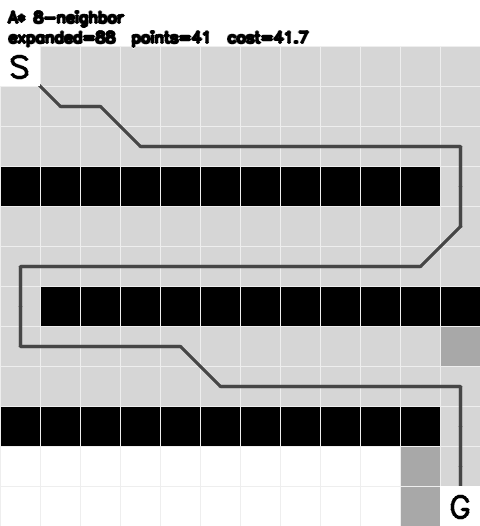
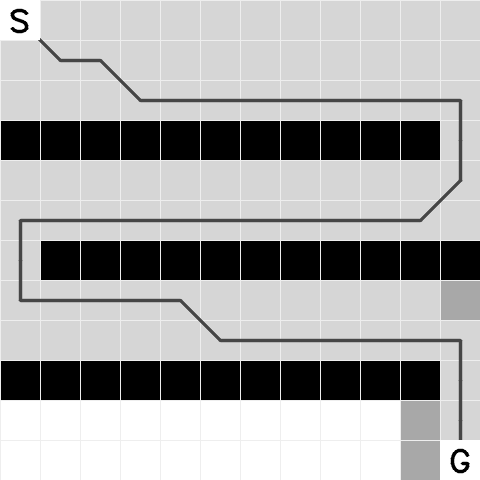
任务四：三个文件统一放到 src 下，图上不再有标题文字

diff --git a/navigation_ws/task4/src/main.cpp b/navigation_ws/task4/src/main.cpp
@@ -21,14 +21,6 @@ const int OPEN_LEVEL = 168;
 const int GRID_LEVEL = 238;
 const int PATH_LEVEL = 70;
 
-void put_text(cv::Mat& image, const std::string& text, int row) {
-    const cv::Point origin{8, 22 + row * 20};
-    cv::putText(
-        image, text, origin, cv::FONT_HERSHEY_SIMPLEX, 0.5, cv::Scalar(FREE_LEVEL), 4, cv::LINE_AA);
-    cv::putText(
-        image, text, origin, cv::FONT_HERSHEY_SIMPLEX, 0.5, cv::Scalar(WALL_LEVEL), 2, cv::LINE_AA);
-}
-
 void put_mark(cv::Mat& image, Point point, int cell, const std::string& letter) {
     cv::rectangle(
         image, cv::Rect(point.x * cell, point.y * cell, cell, cell), cv::Scalar(FREE_LEVEL),
@@ -51,8 +43,7 @@ std::string info_text(const Result& result) {
     return text.str();
 }
 
-cv::Mat draw(
-    const Map& map, const Result& result, Point start, Point goal, const std::string& title) {
+cv::Mat draw(const Map& map, const Result& result, Point start, Point goal) {
 
     const int cell = std::max(14, 480 / map.width);
     cv::Mat image(map.height * cell, map.width * cell, CV_8UC1, cv::Scalar(FREE_LEVEL));
@@ -72,15 +63,16 @@ cv::Mat draw(
         }
     }
 
-    for (int x = 0; x <= map.width; ++x)
-        cv::line(
-            image, cv::Point{x * cell, 0}, cv::Point{x * cell, image.rows},
-            cv::Scalar(GRID_LEVEL), 1);
-    for (int y = 0; y <= map.height; ++y)
-        cv::line(
-            image, cv::Point{0, y * cell}, cv::Point{image.cols, y * cell}, cv::Scalar(GRID_LEVEL),
-            1);
-
+    if (cell >= 24) {
+        for (int x = 0; x <= map.width; ++x)
+            cv::line(
+                image, cv::Point{x * cell, 0}, cv::Point{x * cell, image.rows},
+                cv::Scalar(GRID_LEVEL), 1);
+        for (int y = 0; y <= map.height; ++y)
+            cv::line(
+                image, cv::Point{0, y * cell}, cv::Point{image.cols, y * cell},
+                cv::Scalar(GRID_LEVEL), 1);
+    }
     if (!result.path.empty()) {
         std::vector<cv::Point> centers;
         for (const auto& point : result.path)
@@ -91,11 +83,7 @@ cv::Mat draw(
     put_mark(image, start, cell, "S");
     put_mark(image, goal, cell, "G");
 
-    cv::Mat canvas(image.rows + 46, image.cols, CV_8UC1, cv::Scalar(FREE_LEVEL));
-    image.copyTo(canvas(cv::Rect(0, 46, image.cols, image.rows)));
-    put_text(canvas, title, 0);
-    put_text(canvas, info_text(result), 1);
-    return canvas;
+    return image;
 }
 
 cv::Mat side_by_side(const std::vector<cv::Mat>& images) {
@@ -169,8 +157,7 @@ int main() {
         const Result result = find_path(item.map, item.start, item.goal, true);
         print_info(item.name, result);
         cv::imwrite(
-            outDir + item.name + ".png",
-            draw(item.map, result, item.start, item.goal, "A* 8-neighbor"));
+            outDir + item.name + ".png", draw(item.map, result, item.start, item.goal));
     }
 
     const std::vector<Case> maps = make_maps();
@@ -181,7 +168,7 @@ int main() {
         const Result result = find_path(rooms.map, rooms.start, rooms.goal, allowDiagonal);
         const std::string title = allowDiagonal ? "rooms / 8-neighbor" : "rooms / 4-neighbor";
         print_info(title, result);
-        images.push_back(draw(rooms.map, result, rooms.start, rooms.goal, title));
+        images.push_back(draw(rooms.map, result, rooms.start, rooms.goal));
     }
     cv::imwrite(outDir + "neighbors.png", side_by_side(images));
 

diff --git a/navigation_ws/task4.md b/navigation_ws/task4.md
@@ -19,13 +19,14 @@ random.png          60×40 随机障碍地图
 neighbors.png       同一张图 4 邻域 vs 8 邻域对比
 ```
 
-代码就 3 个文件，各管各的：
+代码就 3 个文件，都放在 `src/` 下，各管各的：
 
 ```
 task4/
-├── include/map.hpp      地图：图多大、哪格能走、怎么造墙
-├── include/astar.hpp    算法：怎么找路（接口和实现都在这一个文件里）
-└── src/main.cpp         主程序：造地图 + 调算法 + 画图
+└── src/
+    ├── map.hpp      地图：图多大、哪格能走、怎么造墙
+    ├── astar.hpp    算法：怎么找路（接口和实现都在这一个文件里）
+    └── main.cpp     主程序：造地图 + 调算法 + 画图
 ```
 
 要改地图就改 `src/main.cpp` 的 `make_maps()`：
@@ -37,11 +38,11 @@ maps.push_back(Case{"tiny_5x5", std::move(tiny), Point{0, 0}, Point{4, 4}});
 //                 ↑名字                        ↑起点      ↑终点
 ```
 
-**图是黑白的**（灰度，没有彩色）：白=空地、黑=障碍、浅灰=搜过的格子、中灰=待办清单、深灰=最后那条路径；起点写个 `S`，终点写个 `G`，标题和结果数字放在图上方单独一条白边上，不压着地图。
+**图是黑白的**（灰度，没有彩色）：白=空地、黑=障碍、浅灰=搜过的格子、中灰=待办清单、深灰=最后那条路径；起点写个 `S`，终点写个 `G`。图上**不放任何标题和数字**，看着干净；跑的数值只在终端里打印。小地图（5×5、12×12）会画浅灰网格线，方便数格子；大地图不画。
 
 ## 二、代码
 
-### include/map.hpp
+### src/map.hpp
 
 ```cpp
 #pragma once
@@ -121,7 +122,7 @@ public:
 };
 ```
 
-### include/astar.hpp
+### src/astar.hpp
 
 ```cpp
 #pragma once
@@ -253,7 +254,16 @@ inline Result find_path(const Map& map, Point start, Point goal, bool allowDiago
 }
 ```
 
-`src/main.cpp` 就干三件事：造地图、调 `find_path`、把结果画成 PNG。画图每格用 `cv::rectangle` 填一种灰度，路径用 `cv::polylines` 连成折线，起点终点格子填白后写上 `S` / `G`，最后把标题和数字写在上方那条 46 像素的白边上。
+`src/main.cpp` 就干三件事：造地图、调 `find_path`、把结果画成 PNG。画图就是每格用 `cv::rectangle` 填一种灰度，路径用 `cv::polylines` 连成折线，起点终点格子填白、写上 `S` / `G`，别的一律不画。数字改在终端里看：
+
+```bash
+[tiny_5x5] 找到路径  expanded=20  points=8  cost=7.4
+[regular_12x12] 找到路径  expanded=88  points=41  cost=41.7
+[rooms] 找到路径  expanded=527  points=60  cost=71.8
+[random] 找到路径  expanded=612  points=69  cost=77.9
+[rooms / 4-neighbor] 找到路径  expanded=701  points=91  cost=90.0
+[rooms / 8-neighbor] 找到路径  expanded=527  points=60  cost=71.8
+```
 
 ## 三、结果
 
